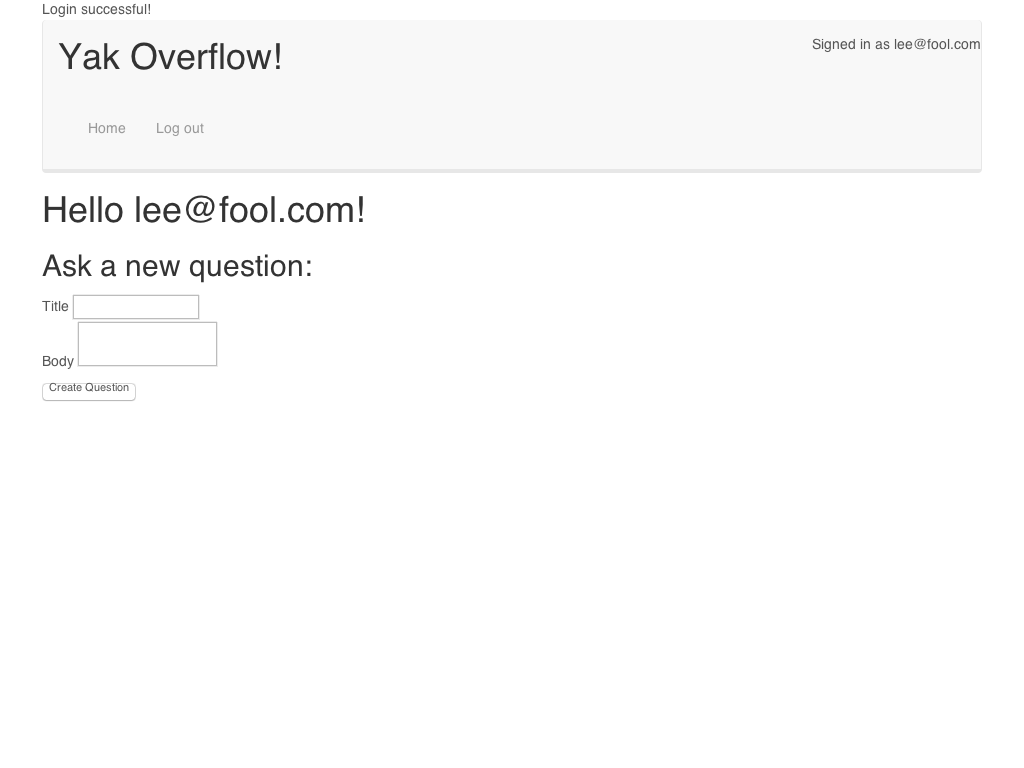
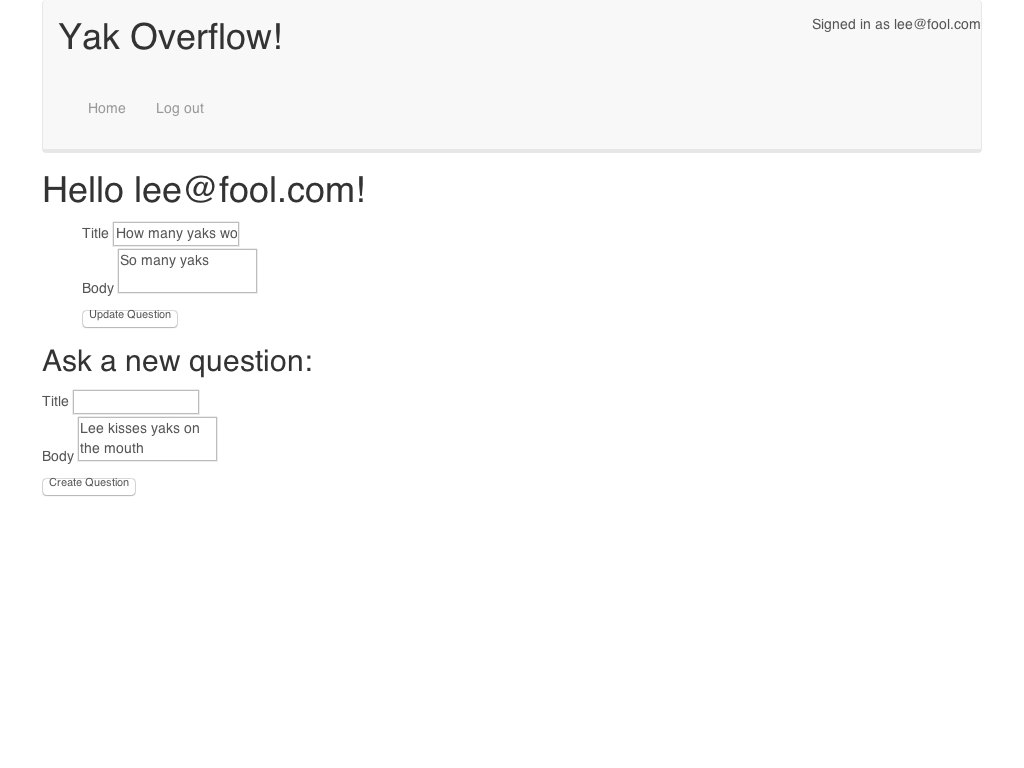
Fully moved edit & delete buttons to index page

diff --git a/spec/features/modify_question_pages_spec.rb b/spec/features/modify_question_pages_spec.rb
@@ -12,6 +12,12 @@ describe "edit/delete a question process" do
     expect(page).to have_content("Edit")
   end
 
+  it "will not show the edit/delete links if the user isn't the creator of that question" do
+    question = FactoryGirl.create(:question)
+    visit questions_path
+    expect(page).to have_no_content("Edit")
+  end
+
   it "will open the edit form" do
     question = FactoryGirl.create(:question, :user_id => user.id)
     visit questions_path
@@ -19,11 +25,12 @@ describe "edit/delete a question process" do
     expect(page).to have_content("Title")
   end
 
-  it "will edit the text of a question" do
+  it "will edit the body of a question", js: true do
     question = FactoryGirl.create(:question, :user_id => user.id)
-    visit question_path(question)
+    visit questions_path
     click_on "Edit"
     fill_in "Body", :with => "Lee kisses yaks on the mouth"
+    # save_screenshot("screenshot.png")
     click_on "Update Question"
     visit question_path(question)
     expect(page).to have_content("Lee kisses yaks on the mouth")
@@ -31,7 +38,7 @@ describe "edit/delete a question process" do
 
   it "will edit the title of a question" do
     question = FactoryGirl.create(:question, :user_id => user.id)
-    visit question_path(question)
+    visit questions_path
     click_on "Edit"
     fill_in "Title", :with => "How many yaks does Lee kiss?"
     click_on "Update Question"
@@ -40,7 +47,7 @@ describe "edit/delete a question process" do
 
   it "will delete a question" do
     question = FactoryGirl.create(:question, :user_id => user.id)
-    visit question_path(question)
+    visit questions_path
     click_on "Delete"
     expect(page).to have_no_content("light bulb")
   end

diff --git a/spec/features/show_question_pages_spec.rb b/spec/features/show_question_pages_spec.rb
@@ -13,18 +13,6 @@ describe "show a question process" do
     expect(page).to have_content("So many yaks")
   end
 
-  it "will show the edit/delete links if the user is the creator of that question" do
-    question = FactoryGirl.create(:question, :user_id => user.id)
-    visit question_path(question)
-    expect(page).to have_content("Edit")
-  end
-
-  it "will not show the edit/delete links if the user isn't the creator of that question" do
-    question = FactoryGirl.create(:question)
-    visit questions_path
-    click_on question.title
-    expect(page).to have_no_content("Edit")
-  end
 
 
 end
